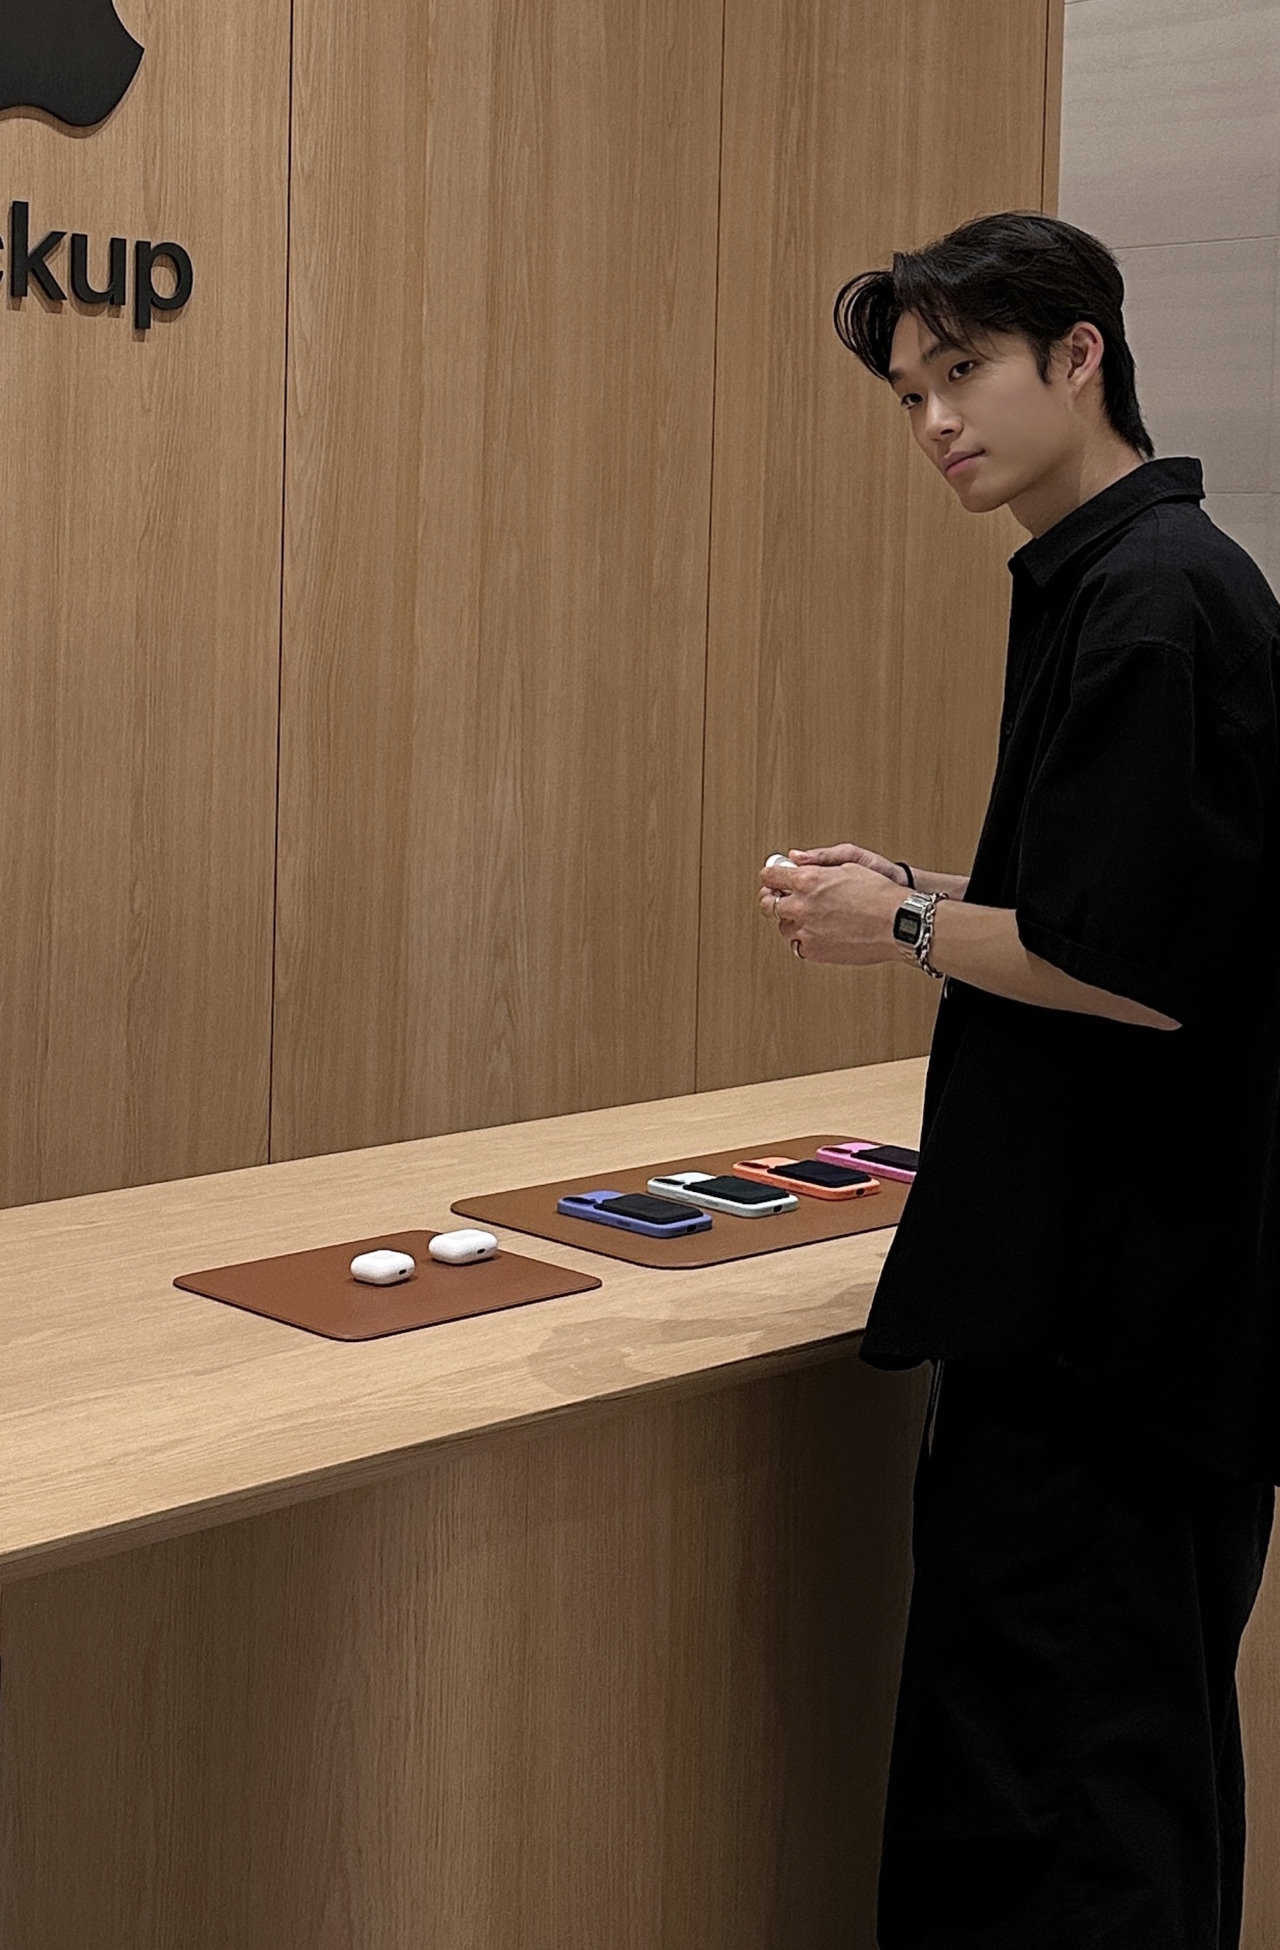
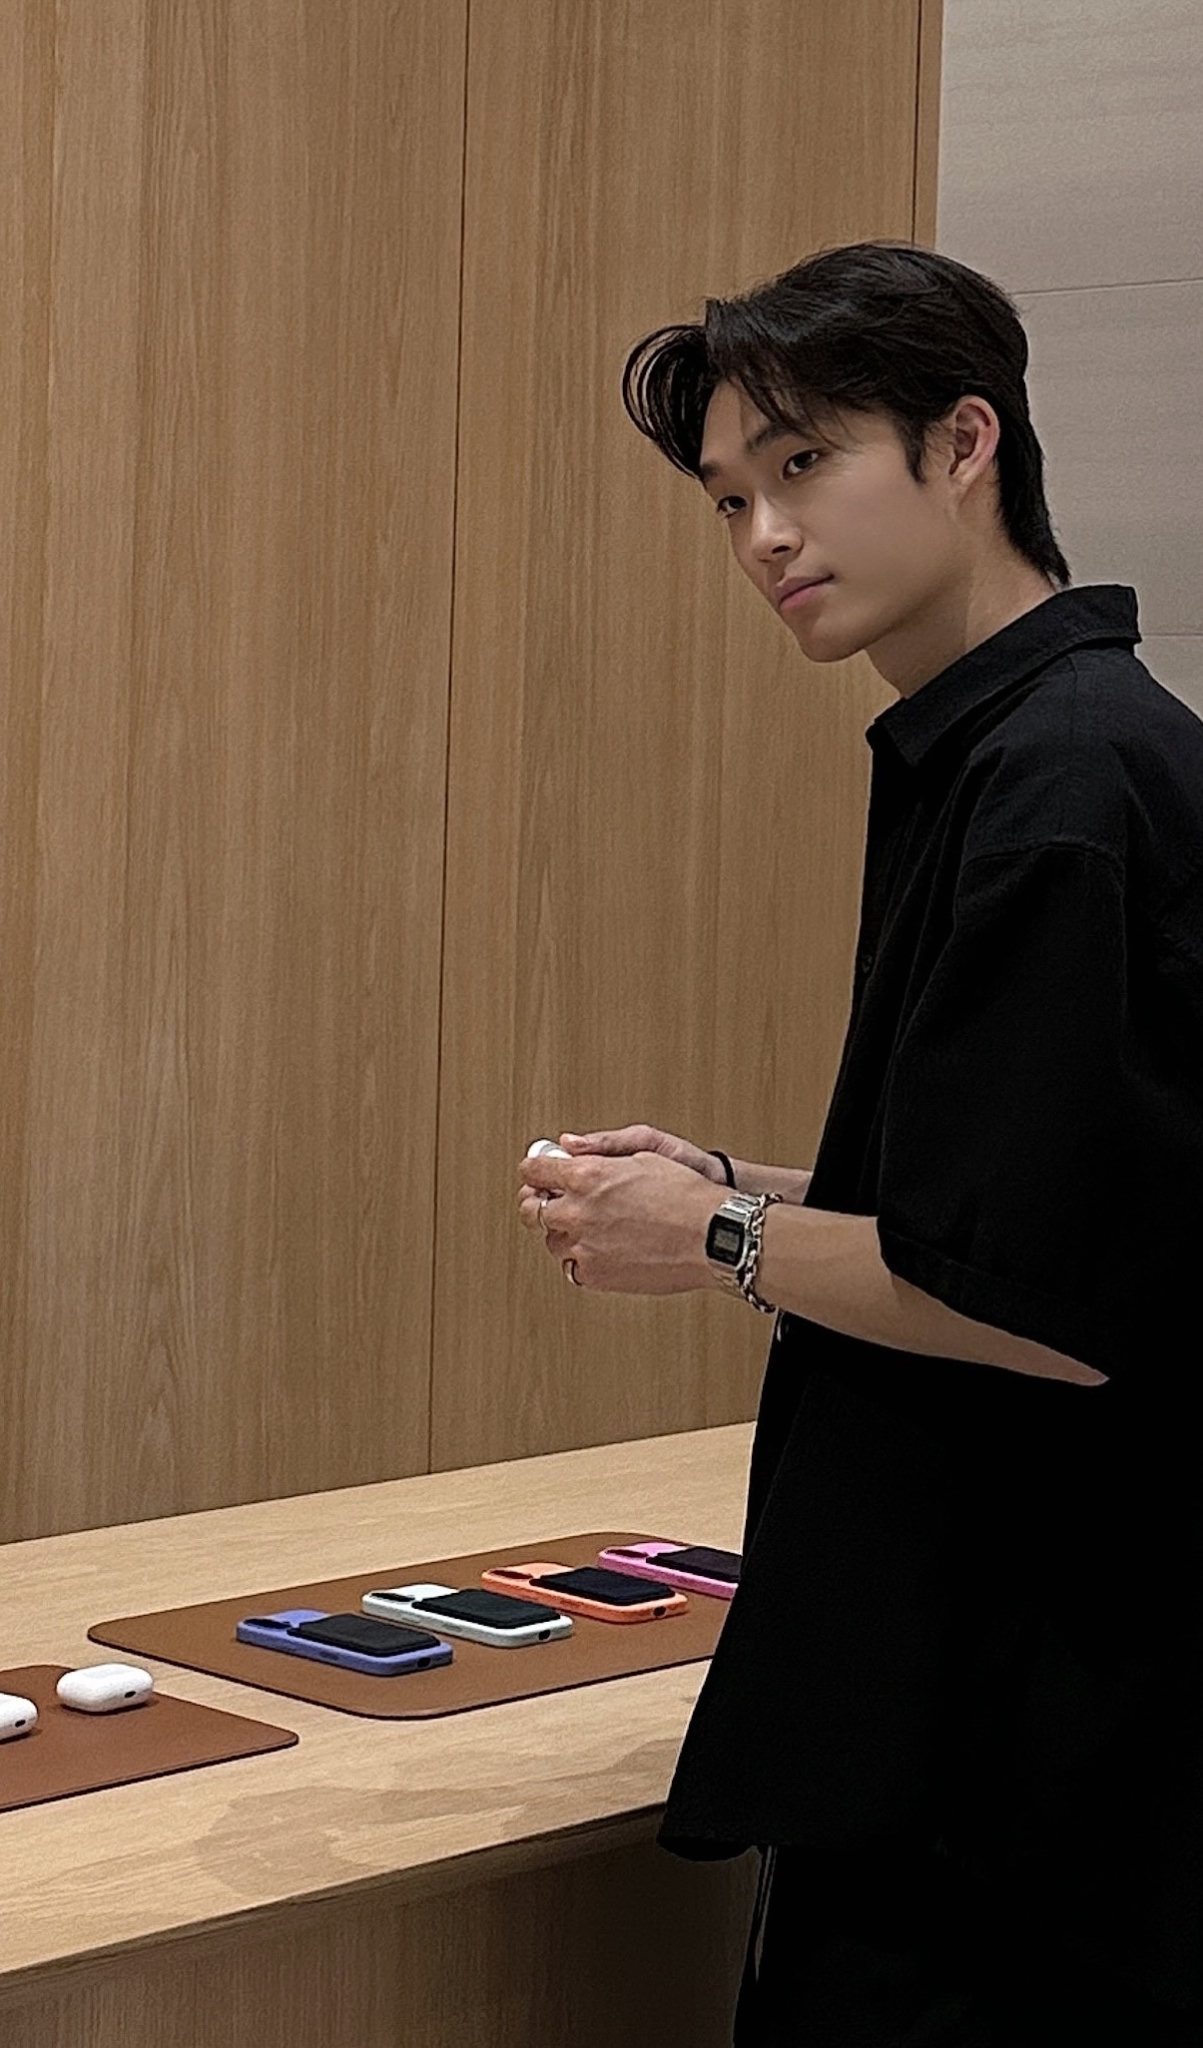
Use the updated close-up profile photo

diff --git a/index.html b/index.html
@@ -47,7 +47,7 @@
               <tbody>
                 <tr style="padding: 0px">
                   <td style="padding: 2.5%; width: 36%; max-width: 36%">
-                    <a href="images/kwseo/kwseo_profile_2026.jpg"
+                    <a href="images/kwseo/kwseo_profile_2026.jpg?v=2"
                       ><img
                         style="
                           width: 85%;
@@ -57,9 +57,9 @@
                           border-radius: 5%;
                         "
                         alt="Kwangwook Seo profile photo"
-                        src="images/kwseo/kwseo_profile_2026.jpg"
-                        width="1280"
-                        height="1950"
+                        src="images/kwseo/kwseo_profile_2026.jpg?v=2"
+                        width="1203"
+                        height="2048"
                         class="hoverZoomLink"
                     /></a>
                   </td>
